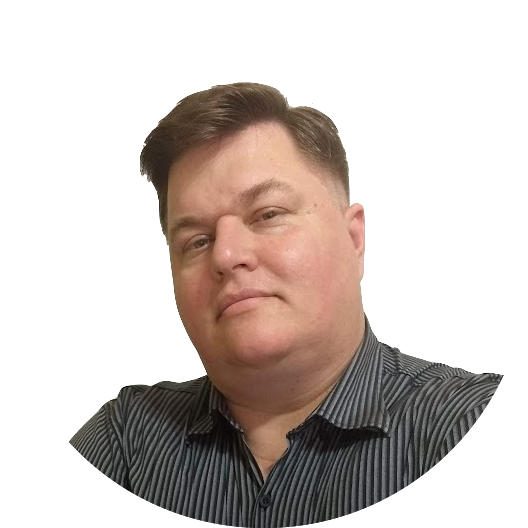
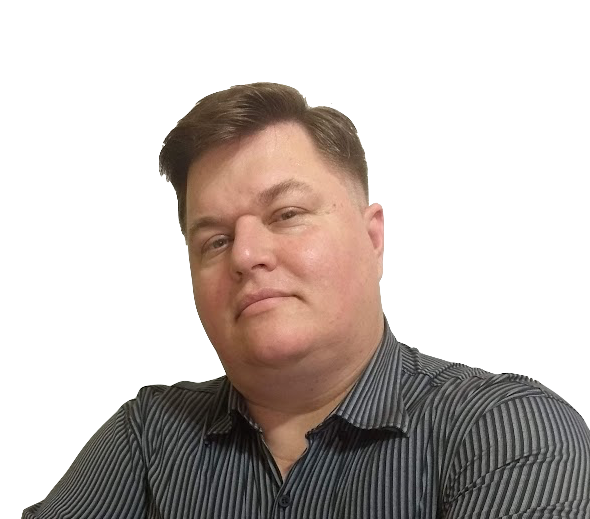
feat: google tag manager

Changed region(s): [[0.0303, 0.1541, 1.0, 1.0], [0.2424, 0.2775, 0.303, 0.3699], [0.2727, 0.2158, 0.3333, 0.2775]]

diff --git a/src/pages/index.tsx b/src/pages/index.tsx
@@ -37,23 +37,37 @@ export default () => (
     <Header titlePre="Home" />
     <div className={sharedStyles.layout}>
       <img
-        className={contactStyles.avatar}
+        className={contactStyles.avatarFront}
         src="/avatar.png"
         width="200"
         alt="Zamboni's Photo"
       />
       <h1>Howdy! Giovani Zamboni here!</h1>
       <h2>
-        I am a developer/SRE from Brazil 🇧🇷 that solve problems for tech
-        companies abroad, remotely.
-        {/* <ExtLink
-          href="https://github.com/gzamboni"
-          className="dotted"
-          style={{ color: 'inherit' }}
-        >
-          remotely
-        </ExtLink> */}
+        I am a developer/SRE from Brazil 🇧🇷
+        <br />
+        that solve problems for tech companies abroad, remotely.
       </h2>
+
+      <div className="explanation">
+        <p>
+          I am a mentor of the{' '}
+          <ExtLink href="https://www.startupsc.com.br/">StartupSC</ExtLink>{' '}
+          program at Sebrae and co-founded{' '}
+          <ExtLink href="https://www.jetbov.com">JetBov</ExtLink>, named as one
+          of the top startups in Brazil by{' '}
+          <ExtLink href="https://revistapegn.globo.com/Startups/noticia/2019/05/100-startups-brasileiras-para-voce-ficar-de-olho.html">
+            Época Negócios magazine
+          </ExtLink>
+          . In addition, he worked for prominent companies such as{' '}
+          <ExtLink href="https://www.totvs.com">Datasul (agora Totvs)</ExtLink>,{' '}
+          <ExtLink href="https://www.neogrid.com">NeoGrid</ExtLink> and{' '}
+          <ExtLink href="http://www.contaazul.com">ContaAzul</ExtLink>. He
+          currently helps computers assist people in their daily activities
+          through Artificial Intelligence on the{' '}
+          <ExtLink href="https://www.totvslabs.com">TotvsLabs</ExtLink> team.
+        </p>
+      </div>
 
       <br />
 
@@ -66,40 +80,6 @@ export default () => (
           )
         })}
       </div>
-
-      {/* <div className="explanation">
-        <p>
-          This is a statically generated{' '}
-          <ExtLink href="https://nextjs.org">Next.js</ExtLink> site with a{' '}
-          <ExtLink href="https://notion.so">Notion</ExtLink> powered blog that
-          is deployed with <ExtLink href="https://zeit.co">ZEIT</ExtLink>. It
-          leverages some upcoming features in Next.js like{' '}
-          <ExtLink href="https://github.com/zeit/next.js/issues/9524">
-            SSG support
-          </ExtLink>{' '}
-          and{' '}
-          <ExtLink href="https://github.com/zeit/next.js/issues/8626">
-            built-in CSS support
-          </ExtLink>{' '}
-          which allow us to achieve all of the benefits listed above including
-          blazing fast speeds, great local editing experience, and always being
-          available!
-        </p>
-
-        <p>
-          Get started by creating a new page in Notion and clicking the deploy
-          button below. After you supply your token and the blog index id (the
-          page's id in Notion) we will automatically create the table for you!
-          See{' '}
-          <ExtLink href="https://github.com/ijjk/notion-blog#getting-blog-index-and-token">
-            here in the readme
-          </ExtLink>{' '}
-          for finding the new page's id. To get your token from Notion, login
-          and look for a cookie under www.notion.so with the name `token_v2`.
-          After finding your token and your blog's page id you should be good to
-          go!
-        </p>
-      </div> */}
     </div>
   </>
 )

diff --git a/src/styles/contact.module.css b/src/styles/contact.module.css
@@ -25,6 +25,16 @@
 
 .avatar img {
   height: 120px;
+  box-shadow: #707880 0px 0px 5px;
+  border-radius: 100%;
+}
+
+.avatarFront {
+  display: block;
+  text-align: center;
+  margin: 1rem 0;
+  box-shadow: #707880 0px 0px 5px;
+  border-radius: 100%;
 }
 
 .name {
